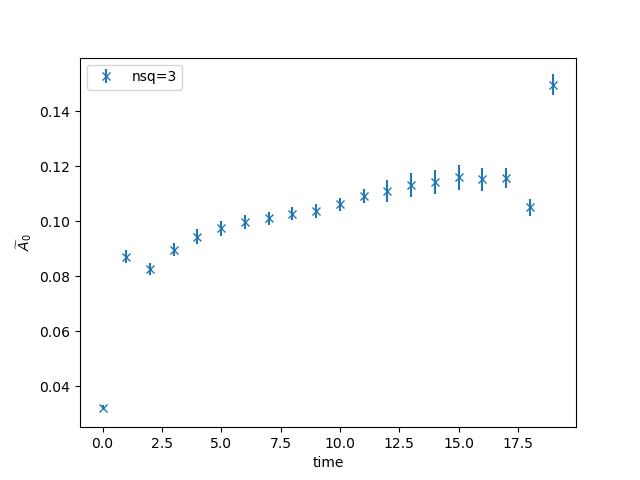
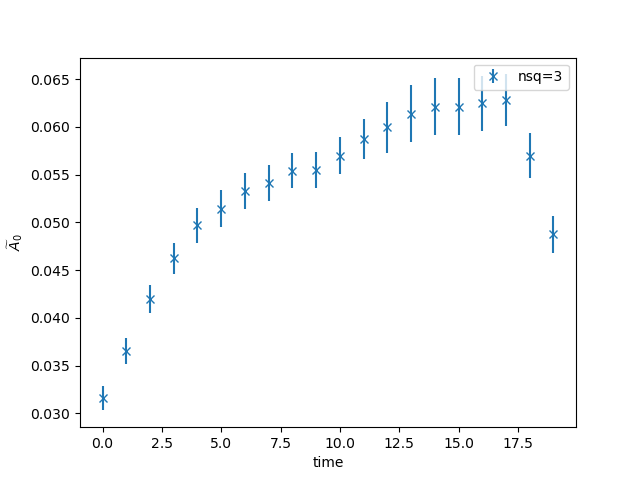
A0 new run

diff --git a/C1/A0-Av-improved.py b/C1/A0-Av-improved.py
@@ -53,7 +53,7 @@ def sum_with_exceptions_jack(lst,j,i):
             total += jack(num[j],i)  # Add other elements
     return total/len(lst)
 #########decide here which nsq
-nsq=1
+nsq=3
 ##########
 
 
